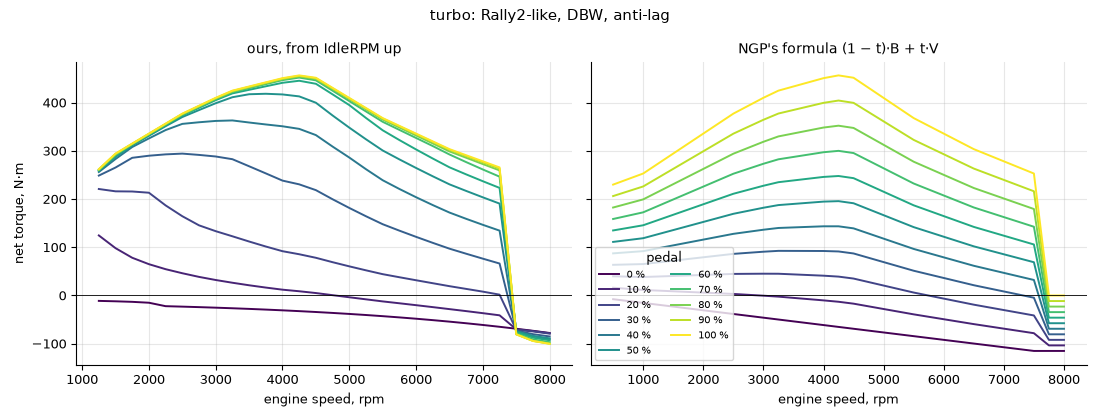
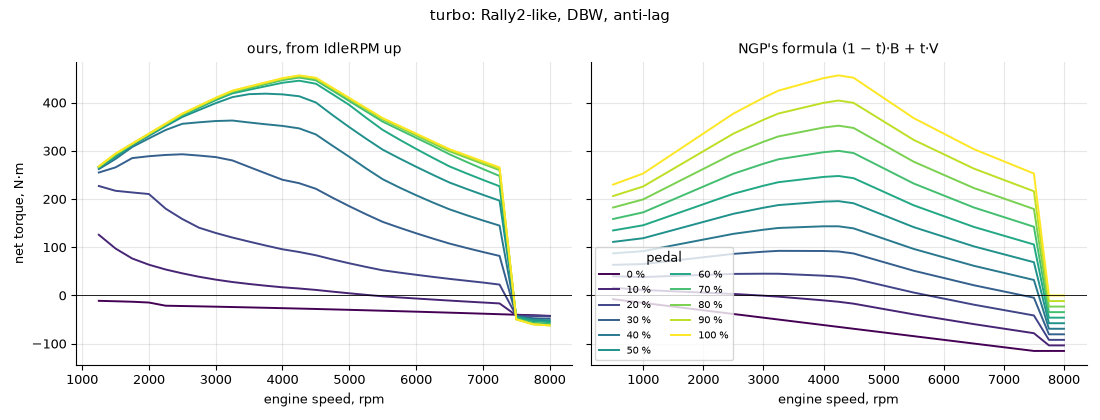
Engine docs: turbo friction at Sandoval's, the shaft at idle, compression by group, turbo K kept over the cycle; regenerated figures

diff --git a/notes/engine-model.md b/notes/engine-model.md
@@ -39,6 +39,15 @@ the doc comments. Each line gives its evidence: a source (list at the end), or "
   mechanical injection) [tech-racingcars Golf]; Fiesta R2 NA [Group R], so no anti-lag.
 - WRC boost cap 2.5 bar abs from 2011 [FIA 255A]; 4.0 bar before (guess: forum reports of 3–4 bar [NASIOC WRC],
   [passionford], both unreachable at the 2026-11 audit).
+- Compression ratio: NA 11 (guess); a turbo's by group (`compression`). Group B 7.0: road ur-quattro 2.1 10V 7.0
+  [audiurquattro], [auto-data], road Sport quattro 8.0 and 205 T16 6.5 [ultimatespecs], Delta S4 Stradale 7.5
+  [ultimatecarpage], S1 E2 7.5 [tech-racingcars S1]. Group A and N/R4 8.5, their road engines': Cosworth YB 8.0
+  [FordWiki Escort], Integrale Evo2 8.0 [ultimatecarpage], Delta HF 4WD Group N 8.0 [tech-racingcars Delta N], 4G63T
+  8.5 (Evo I–II), 9.0 (III), 8.8 (IV–IX) and 4B11T 9.0 [motorreviewer 4G63], [motorreviewer 4B11], EJ20 turbos 8.0
+  and EJ257 8.2 [motorreviewer EJ20], [motorreviewer EJ25], 3S-GTE 8.5, 8.8, 8.5 [motorreviewer 3S-GTE],
+  [8020 3S-GTE]. The rest 9.5 (guess): no WRC, R5/Rally2 or Rally3/4 race engine's is published; the road bases run
+  10.0–10.1 (1.6 EcoBoost) [Wikipedia EcoBoost], 10.5 (G16E-GTS) [GR Yaris spec] and 10.5 (1.2 PureTech)
+  [ultimatespecs]. It sets the residual gas, the rings' gas loading and K's ceiling (Torque).
 
 ## Air path (`gas.rs`, `engine.rs`)
 
@@ -58,11 +67,11 @@ the doc comments. Each line gives its evidence: a source (list at the end), or "
 - W_cyl = η_v·η_res·p·V_d·n/(120RT) and the manifold filling dp/dt = RT/V·(W_in − W_cyl) (generic) [Andersson],
   [Hendricks]. Fully implicit Euler, root-solved per sub-step (inferred: the linearly implicit step overshot a
   per-cylinder tip-in to 2.4 bar).
-- η_v: turbo 0.95 flat (guess); NA the WOT table's shape, peak 1 (inferred: the table is mostly breathing), then raised
-  where K would top the fuel–air cycle (Torque). Road NA engines peak at 0.87–0.88 [Heywood] fig. 6-8; the installed
-  NA cars now peak at 1.12–1.19, the two S2000s at 1.25–1.27.
+- η_v: turbo 0.95 flat (four-valve heads peak at 0.95–0.99 [Garrett turbo selection]); NA the WOT table's shape, peak 1
+  (inferred: the table is mostly breathing), then raised where K would top the fuel–air cycle (Torque). Road NA engines
+  peak at 0.87–0.88 [Heywood] fig. 6-8; the installed NA cars now peak at 1.12–1.19, the two S2000s at 1.25–1.27.
 - Residual gas: η_res = (r_c − (p_em/p_im)^(1/γ))/(r_c − 1), the ideal cycle's (generic, Heywood; the pressure
-  factor of [arXiv 2012.02859]'s η_v), r_c 11 NA, 9.5 turbo, γ 1.3 (guess: the residual is exhaust; 1.4 for air),
+  factor of [arXiv 2012.02859]'s η_v), r_c by class (Class), γ 1.3 (guess: the residual is exhaust; 1.4 for air),
   p_em of the last step. 1 at p_em = p_im; at idle 0.71 (modern turbos) to 0.87. In W_cyl and the charge; K
   recalibrates. On turbos the identity runs once more last (after the hold, the gate's base and the idle gains),
   since the state now feeds back on the charge through p_em (0.16 % off the table otherwise).
@@ -99,18 +108,22 @@ the doc comments. Each line gives its evidence: a source (list at the end), or "
 - K from the identity K = 4π(T_wot + friction + pumping)/charge, so steady WOT reproduces the table exactly
   (inferred). K is calibrated on a 250 rpm grid and every knot, from a fresh engine's tip-in (inferred: a turbo's
   steady boost depends on the path near its threshold).
-- An NA engine's K is at most the fuel–air cycle's work per kg of air: 0.400 at r_c 9.5 and 0.419 at 11 at φ 1.136
-  [Heywood] fig. 5-9, × LHV/(AFR·λ), 1.34 and 1.41 MJ/kg. Real engines reach about 0.8 of the cycle (pp. 194–196),
+- An NA engine's K is at most the fuel–air cycle's work per kg of air: 0.344 at r_c 6, 0.383 at 8, 0.400 at 9.5 and
+  0.419 at 11 at φ 1.136 [Heywood] fig. 5-9 (6, 8 read off its right panel at φ 1 and 1.2), × LHV/(AFR·λ), 1.34 MJ/kg
+  at 9.5 and 1.41 at 11. A richer mixture does not raise it: η·φ, the work per kg of air, is flat from φ 1.1 to 1.4
+  (r_c 12: 0.459 at 1.136, 0.462 at 1.2, 0.455 at 1.4). Real engines reach about 0.8 of the cycle (pp. 194–196),
   the road turbos' maps 0.32–0.39 on the fuel at λ 0.88 [EPA], [Guzzella] figs. 2.32–2.33 about 0.34 at 4000 rpm.
   Where the identity gives more, η_v takes the rest (`breathe`; the na sample's 0.46 at its rated speed was over the
-  ideal cycle). A turbo's K stays, 0.99–1.33 of the ceiling on the installed cars (Open).
+  ideal cycle). A turbo's K stays, one value over rpm from the retarget: on the installed cars 0.97–1.01 of the
+  ceiling on Group A, 1.05–1.08 on the Group B Audi, 1.04–1.26 on Group N/R4 and the modern classes (Open).
 - η_ign = max(0, 1 − 2.8e-4·Δθ²): about 1 % at 6° from MBT [MIT 2.61], quadratic [US 6363317]. [Guzzella] eq. 2.116
   and fig. 2.34: 1 − k_ζ·Δζ², k_ζ 2.4–3.3e-4 within ±15°; [Heywood] fig. 15-3b, 1/bsfc at constant load: 0.990,
   0.973, 0.945 and 0.917 at 5, 10, 15 and 20° (ours 0.993, 0.972, 0.937, 0.888). Untested past 20°.
-- λ 0.88 (guess, used at every load): [x-engineer] gives λ 0.86 for maximum power; the road 1.6 EcoBoost runs
-  λ 0.95–1.00 at full load and 1.00 at part load [EPA Ford 1.6]. It enters the boost target and the exhaust's flow
-  and heat, not the torque (K absorbs it). η_ig 0.38 for the boost target (weak) [Chegg]; LHV 43.4 MJ/kg, AFR 14.7
-  (generic).
+- λ 0.88 (guess, used at every load): [x-engineer] gives λ 0.86 for maximum power; the road 1.6 EcoBoost runs λ
+  0.95–1.00 at full load and 1.00 at part load [EPA Ford 1.6]; tuners run boosted engines at 0.80–0.85 [HPA lambda],
+  [EFI Mastery lambda], and Bosch's MED17 enriches to protect the exhaust [Nefmoto LAMBTS], from about 850–950 °C
+  [Schiller]. It enters the boost target and the exhaust's flow and heat, not the torque (K absorbs it). η_ig 0.38 for
+  the boost target (weak) [Chegg]; LHV 43.4 MJ/kg, AFR 14.7 (generic).
 
 ## Friction and pumping (`friction.rs`)
 
@@ -141,7 +154,7 @@ the doc comments. Each line gives its evidence: a source (list at the end), or "
   2000 on the na sample; the share over Sandoval growing with n² is ours). With one flat scale the ECU samples braked
   1.4–1.7× the road engines below 5000 rpm. Friction from 2000 to 6000 rpm grows 2.15× and 2.66× on Sandoval's
   3.0 L (figs. 8, 6), 2.5–2.7× with WOT pumping motored ([Heywood] eq. 13.6, [Patton] figs. 18–19): the NA samples
-  2.15–2.3, the turbos at s_f 1 1.96–2.02 (Sandoval's model on a 1.6–2.0 L four grows less than his 3.0 L V6; 3.0–3.1
+  2.15–2.3, the turbos at s_f 1 1.96–2.06 (Sandoval's model on a 1.6–2.0 L four grows less than his 3.0 L V6; 3.0–3.1
   at the old clamp of 2). [Guzzella] eq. 2.112's friction over Sandoval's grows as
   n^2.1–2.3, the shape the n² scale takes (its level, 1.3× at 2000 rpm and 2.5× at 6000, is no road engine's here).
 - BrakeCoefficient is a share of MaxTorque, so it overstates braking on boosted engines: every installed turbo car's
@@ -293,7 +306,7 @@ the doc comments. Each line gives its evidence: a source (list at the end), or "
   model (no residual gas, before the retarget) gave the steady WOT boost two branches; 520 °C passes the path test.
   The shaft's spin-down after a lift without anti-lag (4500 rpm fixed, from WOT: stopped within 0.8 s) is set by the
   compressor's work and the losses, the same before and after; no measured spin-down was found.
-  Intercooler effectiveness 0.7 (guess).
+  Intercooler effectiveness 0.7 (guess; a road top-mount measured 0.57, 0.91 with water spray [Ma'arof 2020]).
 - Boost target π_wot(n), first from the table with η_ig 0.38, η_v 0.95, capped (class, else 2.5 abs) and by the
   restrictor [FIA 261], [FIA 255A], then made consistent with one K (above).
 - Wastegate aim. Electronic (DBW): p_a + (π_wot(n)·p_a − p_a)·min(1, θ/θ_open(n)), θ the throttle's aim position,
@@ -396,8 +409,9 @@ growth, WOT mechanical efficiency and WOT over idle air (NA: a motored turbo bui
 
 Rounds, each on its own bands: 36 → 47/77 with the friction by rpm², the idle floor, the exhaust heat, the rotor and
 the restrictors (`a5ea4790` to `d40b242e`); then 47 → 47 with Sandoval's auxiliaries and the valves' pumping, 55/92
-with the new rows and the η_ig band on λ 0.88, 56/92 with an NA engine's K under the fuel–air cycle. By system:
-braking 5/17, friction 8/14, part load 5/15, torque 4/6, idle 9/11, exhaust 5/9, turbo 5/5, class 15/15.
+with the new rows and the η_ig band on λ 0.88, 56/92 with an NA engine's K under the fuel–air cycle, 59/92 with a
+turbo's friction at Sandoval's scale, 59 with no static bearing loss, 60/92 with a turbo's compression ratio by group.
+By system: braking 7/17, friction 8/14, part load 6/15, torque 4/6, idle 9/11, exhaust 6/9, turbo 5/5, class 15/15.
 
 ## In game
 
@@ -432,18 +446,27 @@ brush (main `0ef55141`) are in `notes/tyre-model.md` ("In game").
   them too and idles at 89 rad/s with the clutch open); NGP's clutch help opens at 65 rad/s, too late. Not traced why
   it never opens with the model's engine. The Golf's stall on the climb was the brush's (fixed, `tyre-model.md`).
 - The rally turbos make almost no boost at 1000 rpm, so the [Chalmers] 1000 rpm spool case does not apply to them.
-- A turbo's K over the fuel–air cycle (0.99–1.33 of it on the installed cars; turbo sample and Rally2 0.48 at
-  4000 rpm against 0.40). Holding it at the cycle with the charge, as on NA, was tried: η_v 1.13–1.19 at 2000–4000 rpm,
-  K over it again above 5000 where the restrictor chokes, the exhaust manifold 350 → 400 kPa through the same nozzle,
-  and the spool at 2000 rpm 0.63–0.73 → 0.38–0.43 s (Chalmers 0.54–1.60). It needs the turbine sized with the charge,
-  and the friction scale (above: at the clamp the friction alone grows 3.0–3.1× from 2000 to 6000 rpm, road 2.1–2.7×,
-  and the Rally2's restrictor leaves 3.8 bar for friction and pumping at 6000, the model 5.1). Not done.
-- Manifold volume: one throttle 0.8·V_d against [Guzzella]'s V6 at 2.1·V_d (measured τ about 2.5× ours); one engine
-  with long runners, so not changed.
-- Modern turbos idle at 16.1–16.7 kPa (Rally2, R5, WRC 2006–2020 on RSF; 20–22 before the friction followed rpm),
+- A modern turbo's K over the fuel–air cycle (1.04–1.26 of it; turbo sample and Rally2 0.47–0.48 at 4000 rpm
+  against 0.40), kept so the tables hold (decided 2026-11: NGP's torque over the ceiling). At the 2.5 bar cap the
+  tables ask 13–15 bar of BMEP per bar of boost; the makers claim as much: M-Sport's Fiesta R5 2019 475 N·m at
+  4000 rpm and 290 bhp at 6000 [M-Sport Fiesta R5], Škoda's Fabia R5 evo 212 kW and 425 N·m [Škoda Fabia R5 evo],
+  VW's Polo R WRC (33 mm) 232 kW at 6250 and 425 N·m at 5000 [VW Polo R WRC], Hyundai's i20 N Rally2 300 hp and
+  350 N·m [Hyundai i20 N Rally2] (the Rally2 table 460). Sourced constants close a few % at most: λ none (above),
+  η_v 0.95–0.99, an intercooler 0.57–0.91, race compression ratios unpublished (Class). Tried and dropped: η_v
+  carrying the excess, as on NA (one value, by the on-boost median over K_max): the restrictor holds the air from
+  4400 rpm, so η_v ran 0.95 → 1.17 → 1.25 with K still over; the retarget aiming at min(median, K_max) (boost up to
+  the ceiling wherever free): the Rally2 then asked 2.05 bar at 2000 rpm, at its turbo's limit, and never reached
+  90 % in 5 s from 5 bar BMEP (0.75 s before); restricted knots raised to the restrictor's full flow (the limit with
+  the run's residual gas, which the 0.95 margin left at 86–88 % of the choke): K there 1.16 → 1.10 at 91 %, the
+  restrictor's drop and a drive ratio near 2 taking the rest, K at the cap 1.18 → 1.20 and the turbo sample's spool
+  0.69 → 0.52 s (under Chalmers' 0.54).
+- Manifold volume: one throttle 0.8·V_d against [Guzzella]'s V6 at 2.1·V_d (measured τ about 2.5× ours), aftermarket
+  race plenums for the 4G63 at 2.3–2.5·V_d [Magnus plenum], [Plazmaman plenum] and a design rule of 2–2.5× the
+  cylinder volume per cylinder [IJERT plenum]; no rally engine's and no textbook figure found. Not changed.
+- Modern turbos idle at 16.3–17.5 kPa (Rally2, R5, WRC 2006–2020 on RSF; 20–22 before the friction followed rpm),
   under warm road idles of 22.3–28.5 kPa [EPA] and tuners' 27, 31 and 30–50 kPa [MOTOR], [Gears], [Tuning School];
   every RSF car 16.1–31.5 kPa, the NA ones 21.5–31.5 (`tests/rsf_cars.rs`). The turbo sample and the Fiesta Rally2
-  make no torque at 16.2–16.3 kPa at 2500 rpm (road 18.5–27.2). Cause: the table's torque per bar of boost (K at
+  make no torque at 16.0–16.2 kPa at 2500 rpm (road 18.5–27.2). Cause: the table's torque per bar of boost (K at
   4000 rpm 0.48 as an efficiency, road 0.32–0.39) over Sandoval's friction at low speed. EPA's road K is flat with
   load (Willans), so a part-load K under the WOT one has no support (proposed before, not done); race cams' overlap,
   which raises tuners' idles to 30–50 kPa, is not modelled. Not changed.
@@ -481,9 +504,9 @@ brush (main `0ef55141`) are in `notes/tyre-model.md` ("In game").
   1.6's 593–657 °C retarded at its lightest loads, and run 564 °C at pedal 0.15, 1500 rpm against 585–732 °C at the
   same BMEP on four road turbos. One line over the flow share cannot hold both: a rally engine's rated flow is about
   2.5 bar's, so a given load is a smaller share of it than on a road engine (inferred).
-- Closed-pedal braking at 2000–5000 rpm still runs 0.2–0.4 bar over the road engines' with the fuel cut (Scorecard):
+- Closed-pedal braking at 2000–4000 rpm still runs up to 0.2 bar over the road engines' with the fuel cut (Scorecard):
   the pumping at the 0.2·p_a overrun air is 0.8 bar, and Sandoval's FMEP for a 1.6 L four is over the road engines'
-  0.5–0.7 bar at 2000 rpm. The limit point is NGP's, which no measured race engine checks.
+  0.5–0.7 bar at 2000 rpm. An NA car's limit point is NGP's, which no measured race engine checks.
 
 ## Sources
 
@@ -492,6 +515,29 @@ brush (main `0ef55141`) are in `notes/tyre-model.md` ("In game").
 - Ford 1.6 EcoBoost, ratings: https://fordauthority.com/fmc/ford-motor-company-engines/ford-ecoboost-family/ford-1-6l-ecoboost-engine/
 - Hyundai i20 N, spec sheet: https://www.hyundai.com/content/dam/hyundai/au/en/models/i20-n/2021/images/i20N_Spec-Table_Oct_2021.pdf
 - Škoda Rally2 engine (Fabia RS Rally2): https://cdn.skoda-storyboard.com/2022/06/FABIA_RS_Rally2_Engine.pdf
+- M-Sport Fiesta R5 2019, "FORD FIESTA R5 2019 TECHNICAL SPECIFICATION" (M-Sport PDF; 290 BHP @ 6000 RPM, 475 Nm @
+  4000 RPM, 32 mm)
+- Škoda Fabia R5 evo, technical specification (212 kW, 425 Nm): https://cdn.skoda-storyboard.com/2019/12/MOTORSPORT_Technical_specification.pdf
+- VW Polo R WRC, technical specifications (2012; 232 kW at 6250, 425 Nm at 5000, 33 mm): https://web.archive.org/web/20121212190829/http://volkswagen-motorsport.com/index.php?id=339&L=1
+- Hyundai i20 N Rally2, technical specifications (300 HP, 350 Nm, 32 mm): https://motorsport.hyundai.com/customer-programmes/rally2
+- GR Yaris spec, Toyota UK 2024 (G16E-GTS 10.5:1): https://media.toyota.co.uk/wp-content/uploads/sites/5/pdf/240621-GR-Yaris-Tech-Specs.pdf
+- Wikipedia EcoBoost (1.6 L 10.0–10.1:1): https://en.wikipedia.org/wiki/Ford_EcoBoost_engine
+- tech-racingcars S1 (S1 E2 7.5:1): http://tech-racingcars.wikidot.com/audi-sport-quattro-s1
+- tech-racingcars Delta N (Delta HF 4WD Group N 8.0:1): http://tech-racingcars.wikidot.com/lancia-delta-hf-4wd-gr-n
+- audiurquattro (2144 cc 7.0) and auto-data (Typ 85 2.1 Turbo 7:1): https://www.audiurquattro.fr, https://www.auto-data.net
+- ultimatespecs (Sport quattro 8.0, 205 Turbo 16 6.5, 208 1.2 PureTech 130 10.5): https://www.ultimatespecs.com/car-specs/Audi/222/Audi-Quattro-Sport.html
+- ultimatecarpage (Delta S4 Stradale 7.5:1, spec 2980; Delta HF Integrale Evo2 8.0:1, spec 7322): https://www.ultimatecarpage.com/spec/2980/Lancia-Delta-S4-Stradale.html
+- FordWiki Escort (YBT 8:1): https://www.fordwiki.co.uk/index.php/Buyers_Guide_-_Escort_RS_Cosworth_(Escort_Mk5)
+- motorreviewer 4G63, 4B11, EJ20, EJ25, 3S-GTE (engine_id 123, 124, 56, 53, 152): https://www.motorreviewer.com
+- 8020 3S-GTE (gen 2 8.8:1): https://www.8020automotive.com
+- Garrett turbo selection (η_v 0.95–0.99 on four-valve heads): https://www.garrettmotion.com/news/newsroom/article/how-to-select-a-turbo-part-2-understanding-calculations-to-turbo-any-engine/
+- Ma'arof 2020, intercooler spray (IOP Conf. Ser.: Mater. Sci. Eng.; 56.52 → 90.72 %), abstract via OpenAlex
+- HPA lambda (boosted maximum power λ 0.82–0.85): https://www.hpacademy.com/forum/efi-tuning/show/tuning-richer-than-0-90-lambda/
+- EFI Mastery lambda (0.80–0.85 at high boost): https://efimastery.com/tech-articles/lambda-target-selection/
+- Nefmoto LAMBTS (Bosch MED17 component protection): https://nefariousmotorsports.com/wiki/LAMBTS_2.120_(Lambda_for_Component_Protection)
+- Schiller (ME17/MED17 protection from 850–950 °C): https://schiller-tuning.com/ecu-tuning-course/bosch-advanced-winols/lambda-component-protection
+- Magnus plenum (4G63, 5.0 L), Plazmaman plenum (4.6 L): https://www.magnusmotorsports.com, https://www.plazmaman.com
+- IJERT plenum (design rule): https://www.ijert.org/research/IJERTV9IS110031.pdf
 
 - Andersson, LiU MSc 2017 (MVEM, orifice, turbo): https://www.diva-portal.org/smash/get/diva2:1138994/FULLTEXT01.pdf
 - Hendricks & Sorenson MVEM: https://orbit.dtu.dk/en/publications/mean-value-si-engine-model-for-control-studies
